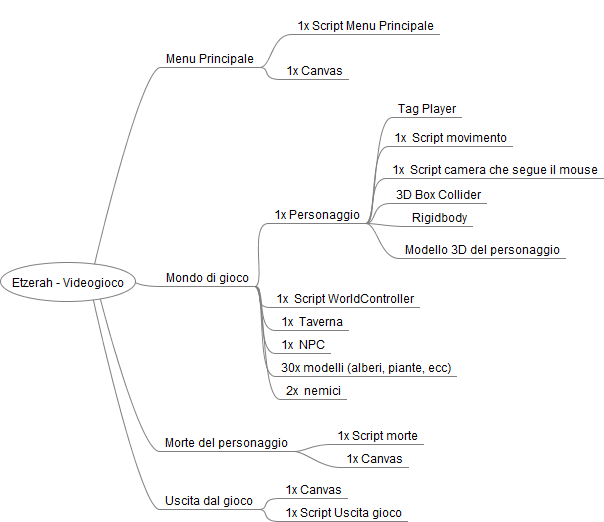
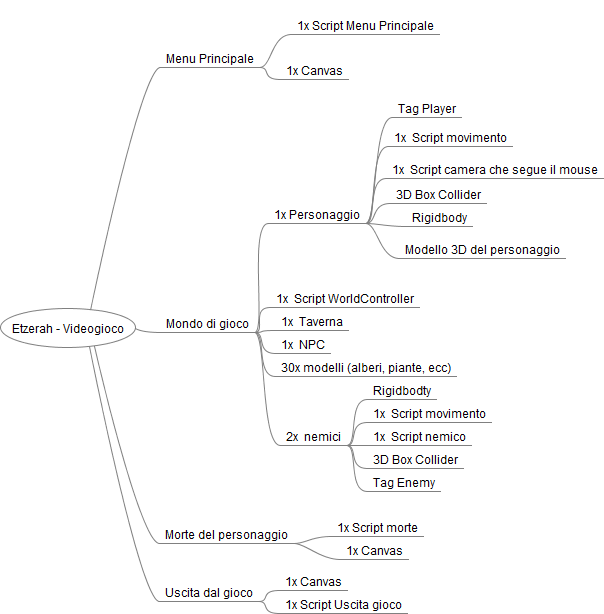
Add files via upload

diff --git a/Documenti/Files/Etzerah Schema logico.mm b/Documenti/Files/Etzerah Schema logico.mm
@@ -18,7 +18,13 @@
 <node CREATED="1495744748222" ID="ID_1902763989" MODIFIED="1495744936238" TEXT="1x  Taverna"/>
 <node CREATED="1495744765555" ID="ID_131345561" MODIFIED="1495744943129" TEXT="1x  NPC"/>
 <node CREATED="1495744778801" ID="ID_381423282" MODIFIED="1495744954488" TEXT="30x modelli (alberi, piante, ecc)"/>
-<node CREATED="1495744807801" HGAP="25" ID="ID_1853552593" MODIFIED="1495744987784" TEXT="2x  nemici" VSHIFT="-10"/>
+<node CREATED="1495744807801" HGAP="25" ID="ID_1853552593" MODIFIED="1495744987784" TEXT="2x  nemici" VSHIFT="-10">
+<node CREATED="1495745202968" ID="ID_1185195431" MODIFIED="1495745209478" TEXT="Rigidbodty"/>
+<node CREATED="1495745211007" ID="ID_99972471" MODIFIED="1495745219994" TEXT="1x  Script movimento"/>
+<node CREATED="1495745224768" ID="ID_1001801599" MODIFIED="1495745231353" TEXT="1x  Script nemico"/>
+<node CREATED="1495745232367" ID="ID_1486432707" MODIFIED="1495745243633" TEXT="3D Box Collider"/>
+<node CREATED="1495745252182" ID="ID_308829685" MODIFIED="1495745256417" TEXT="Tag Enemy"/>
+</node>
 </node>
 <node CREATED="1495744623426" HGAP="23" ID="ID_1721074663" MODIFIED="1495744670312" POSITION="right" TEXT="Morte del personaggio" VSHIFT="8">
 <node CREATED="1495744975500" HGAP="37" ID="ID_149070528" MODIFIED="1495744990469" TEXT="1x Script morte" VSHIFT="14"/>
